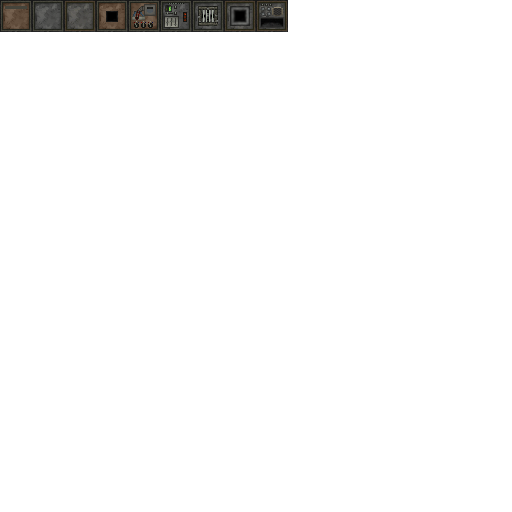
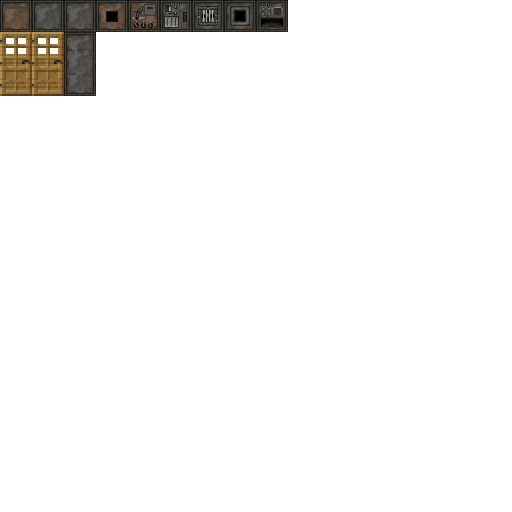
Added texture for door

Changed region(s): [[0.0, 0.0625, 0.1875, 0.1875]]

diff --git a/src/minecraft/hangcow/greatersecurity/common/door/BlockLockedDoor.java b/src/minecraft/hangcow/greatersecurity/common/door/BlockLockedDoor.java
@@ -26,13 +26,13 @@ public class BlockLockedDoor extends BlockMachine
 	public BlockLockedDoor(int id)
 	{
 		super(id, Material.iron);
-		this.blockIndexInTexture = 1;
+		this.blockIndexInTexture = 34;
 
 		float width = 0.5F;
 		float height = 1.0F;
 		this.setBlockBounds(0.5F - width, 0.0F, 0.5F - width, 0.5F + width, height, 0.5F + width);
 		this.setResistance(10f);
-		// this.setTextureFile(GreaterSecurity.BLOCK_File_PATH);
+		this.setTextureFile(GreaterSecurity.BLOCK_File_PATH);
 	}
 
 	@SideOnly(Side.CLIENT)
